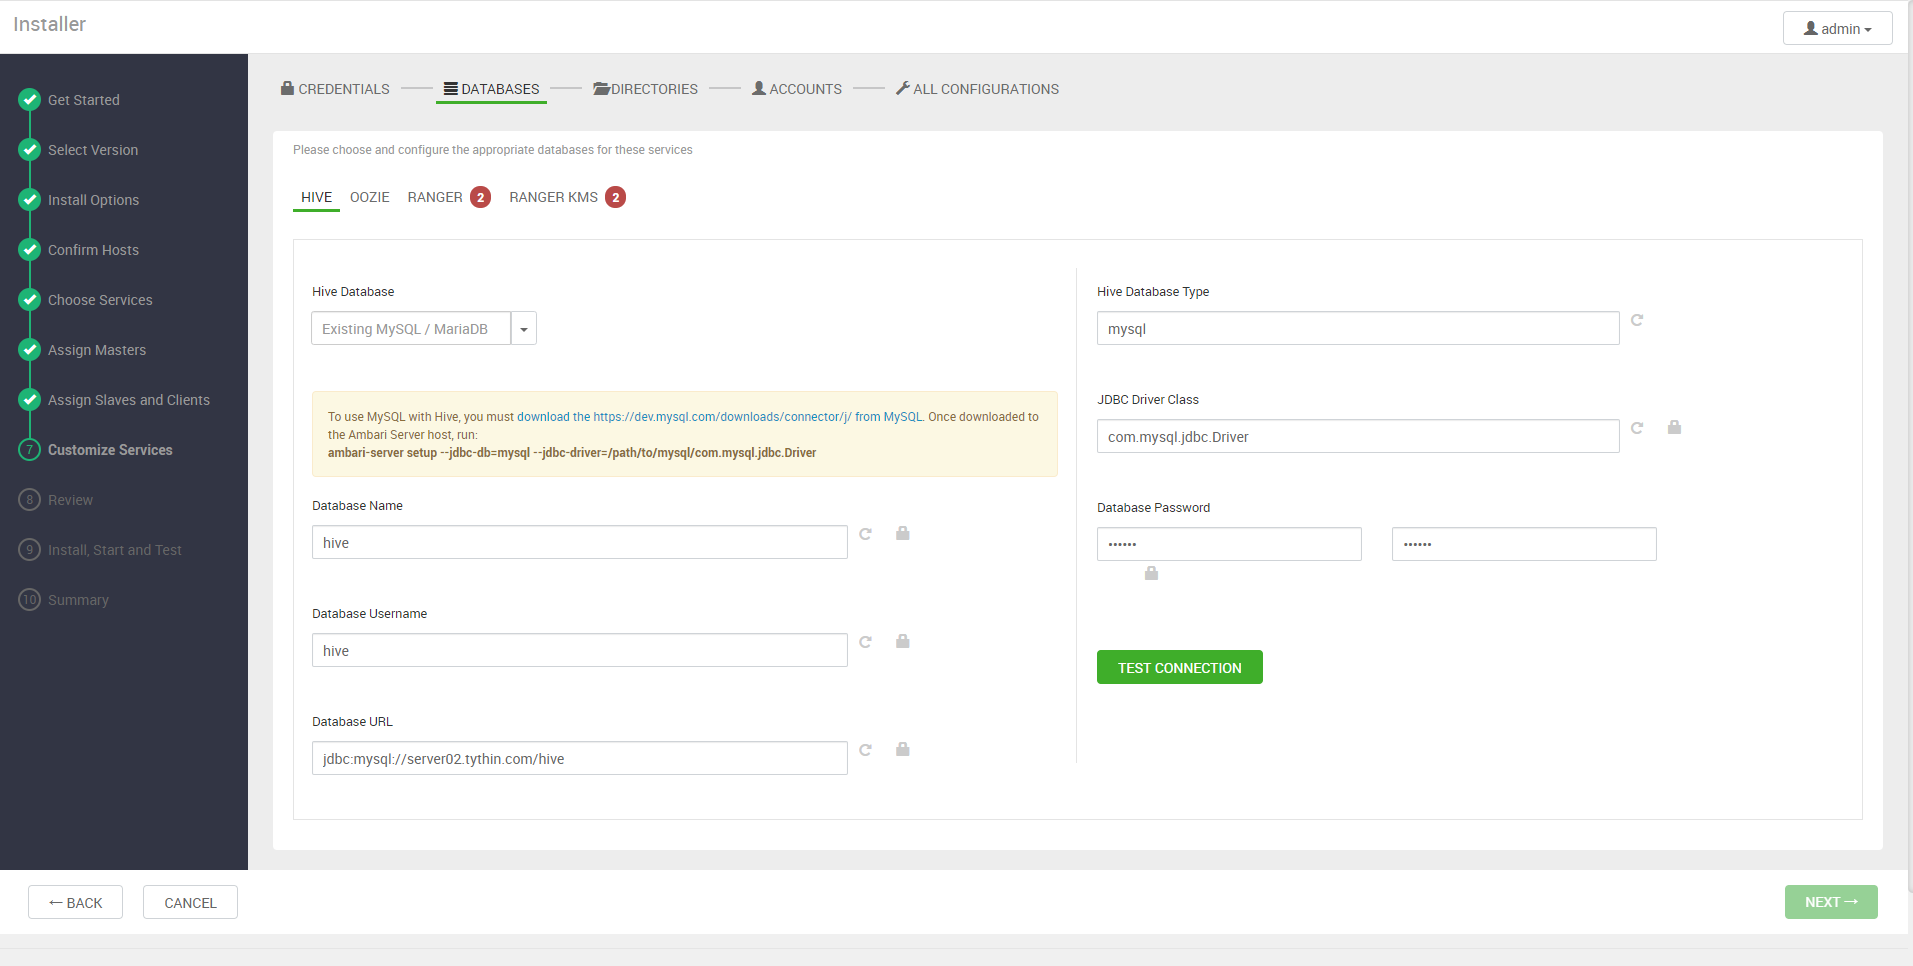
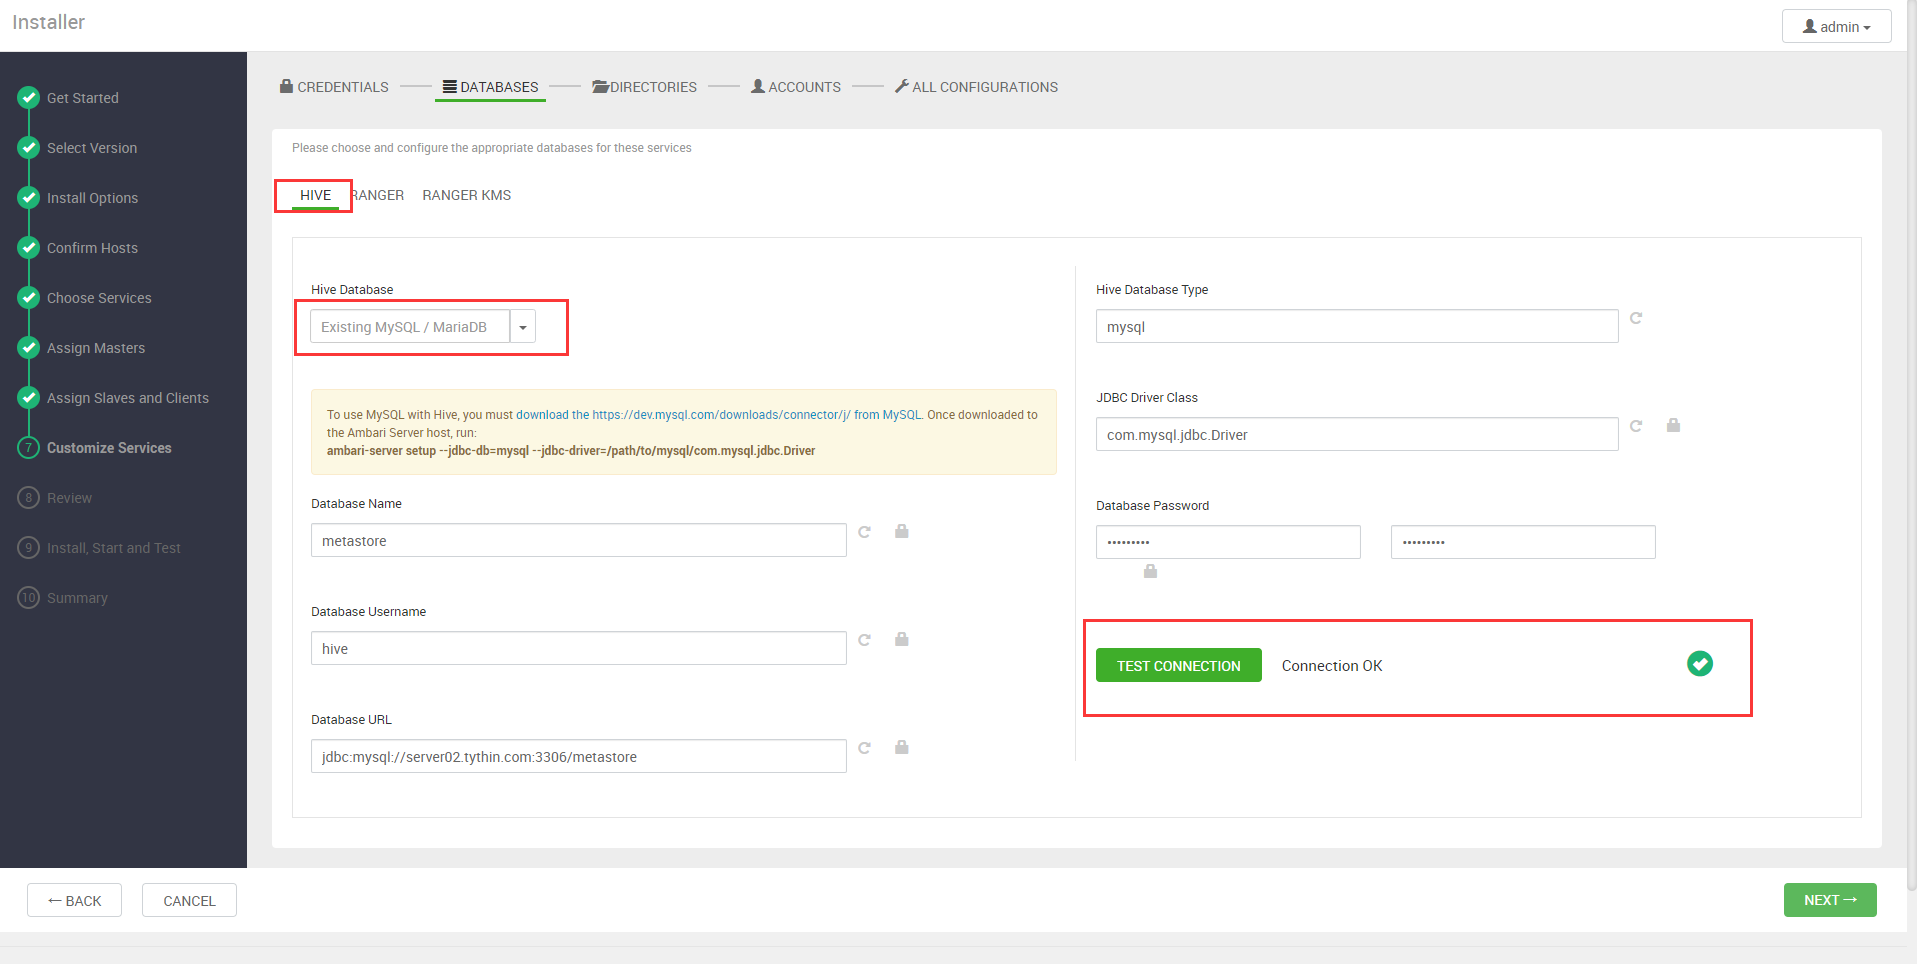
update hdp

diff --git a/3.1.大数据/3.1.配置实例/6.HDP安装配置实例/2.2.安装、配置和部署集群.md b/3.1.大数据/3.1.配置实例/6.HDP安装配置实例/2.2.安装、配置和部署集群.md
@@ -84,16 +84,21 @@ ambari-server start
         **Hive**：
         ![请为这些服务选择并配置相应的数据库1](img/14.png)
 
-        **OOZIE**：
-        ![请为这些服务选择并配置相应的数据库2](img/15.png)
+        **这里使用已有的MySQL数据库，相关帐号与库已创建好了！**
 
         **RANGER**：
-        ![请为这些服务选择并配置相应的数据库3](img/16.png)
+        ![请为这些服务选择并配置相应的数据库3](img/15.png)
+
+        ![请为这些服务选择并配置相应的数据库4](img/16.png)
+
+        **这里使用已有的MySQL数据库，相关帐号与库实时创建**
 
         **RANGER KMS**：
-        ![请为这些服务选择并配置相应的数据库4](img/17.png)
-        
+        ![请为这些服务选择并配置相应的数据库5](img/17.png)
 
+        ![请为这些服务选择并配置相应的数据库6](img/18.png)
+
+        **这里使用已有的MySQL数据库，相关帐号与库实时创建**
 
 
     
